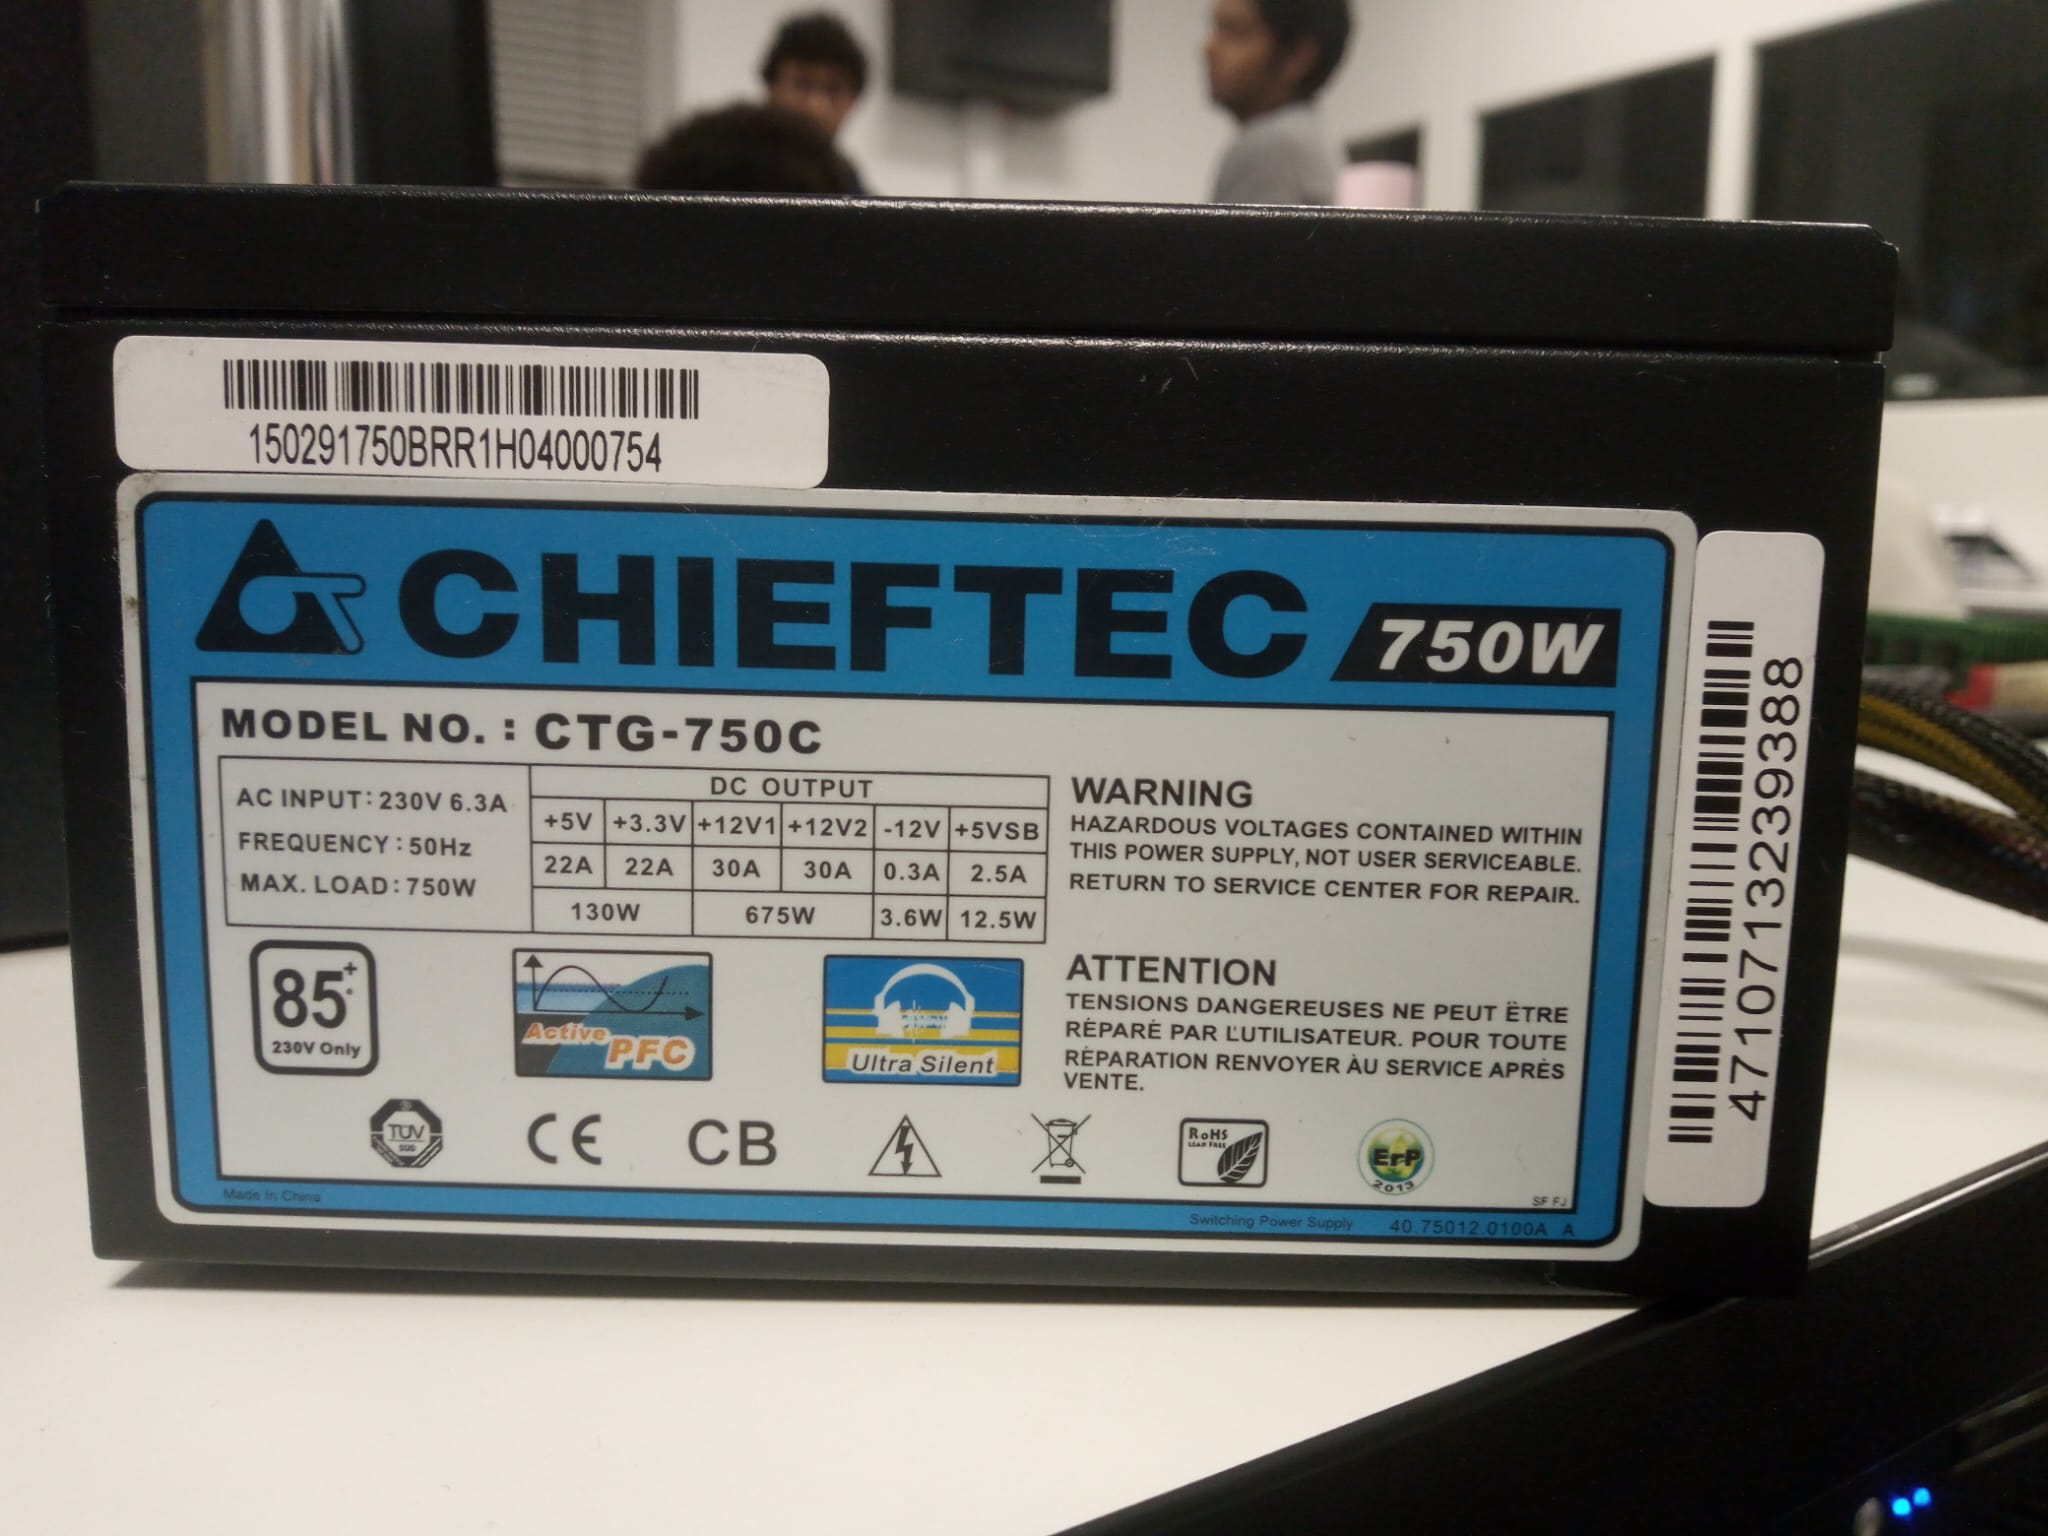
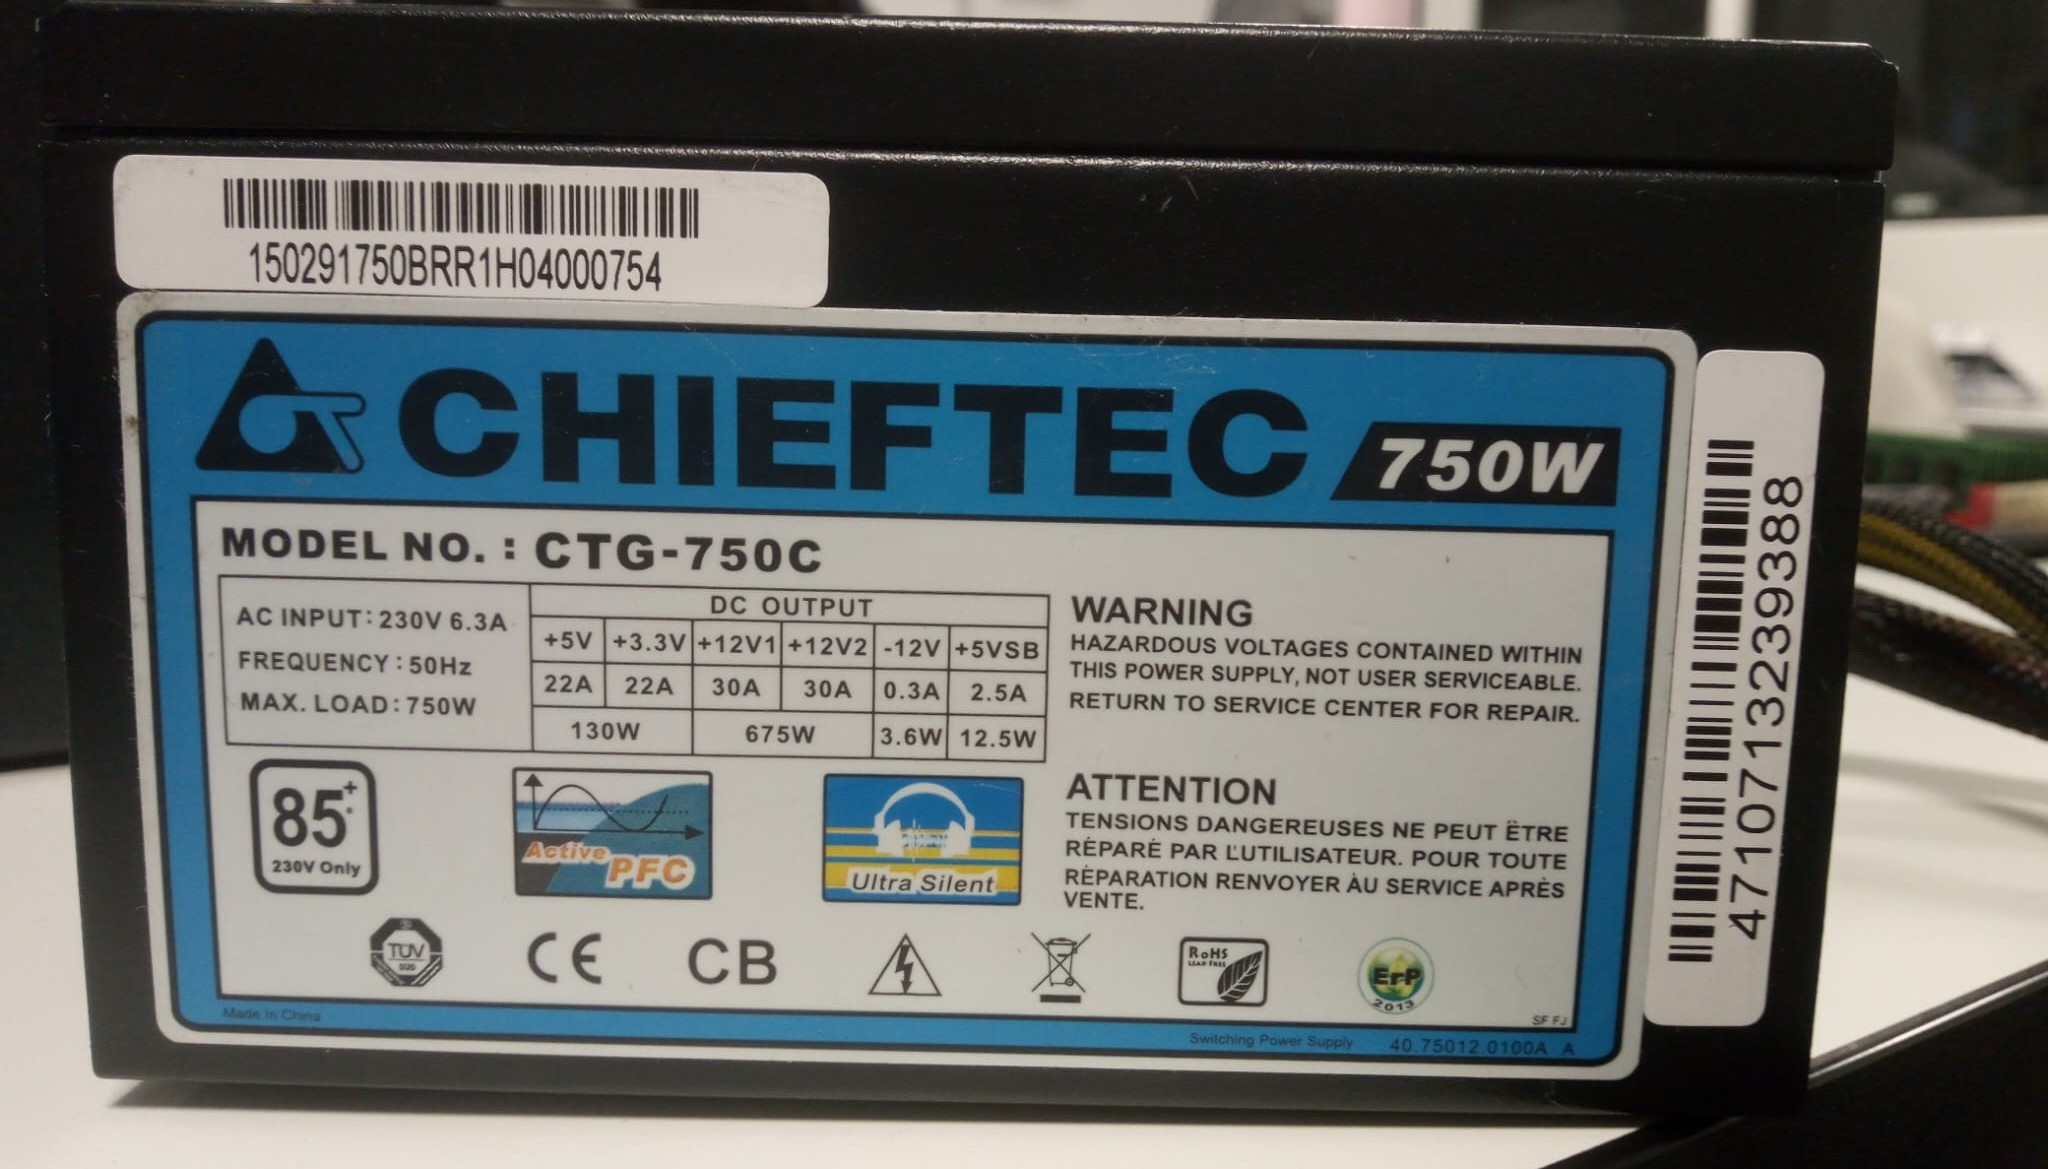
Operating Systems Comparison and picture resize in PSU_SSD_research file
Operating Systems Comparison md file added and resize of the picture in PSU_SSD_research file to delete the picture part containing the blurred faces of some members of the group

diff --git a/research_folder/Ubuntu_NixOS_ArchLinux_Comparison.md b/research_folder/Ubuntu_NixOS_ArchLinux_Comparison.md
@@ -1,0 +1,33 @@
+# <u> **Comparison between Ubuntu, NixOS and Arch Linux Operating Systems**</u>
+
+| **Factors** | **Ubuntu** | **NixOS** | **Arch Linux** |
+|-------------|------------|-----------|----------------|
+| **User-Friendliness** | User friendly, ideal for beginners. | Require some Linux experience, stiff learning curve. | Not very user-friendly, require a lot of manual setting. |
+| **Package Management** | Uses APT and DEB packages. | Uses Nix package manager. Offers reproducible builds. | Uses Pacman package manager. |
+| **Stability** | Stable release with LTS (Long Term Support) versions. | Focuses more on reproducibility and reliability. | Sacrifice stability for freedom and flexibility.|
+| **Documentation** | Large documentation and Community support. | Good documentation, improving. | Excellent documentation with a collaborative wiki. | 
+| **Customisability** | Fairly customizable, but require more manual configuration. | Highly customizable, especially in terms of system configuration and package management. | Highly customizable, the system can be built from scratch. |
+| **Security** | Focuses more on system integration. | It offers a reproducible system environment by isolating packages via containerization techniques (Docker). | Depends mainly from the user. |
+| **Community and Support** | Large user base, extensive community support and forums. | Small but active community. | Strong and active community support. | 
+| **Number of packages available** | Over 60,000 | Over 80,000 | 14697 |
+
+
+# References
+- [Ubuntu Documentation](https://help.ubuntu.com/stable/ubuntu-help/index.html.en) [Accessed: 25/01/2024]
+- [Ubuntu User-Friendly Discussion](https://www.linkedin.com/pulse/ubuntu-robust-user-friendly-linux-distribution-shivam-pateriya/ ) [Accessed: 25/01/2024]
+- [Ubuntu Forum](https://ubuntuforums.org/) [Accessed: 25/01/2024]
+- [Ubuntu Contributors Community](https://discourse.ubuntu.com/?_ga=2.191526250.1915542198.1706178654-1628427948.1706178654) [Accessed: 25/01/2024]
+- [Ubuntu Package Management](https://ubuntu.com/server/docs/package-management) [Accessed: 25/01/2024]
+- [NixOS Manual](https://nixos.org/manual/nixos/stable/#sec-user-management) [Accessed: 25/01/2024]
+- [NixOS User-Friendly Discussion](https://www.reddit.com/r/NixOS/comments/jag2k1/do_you_think_nixos_could_be_positioned_as_one_of/?rdt=40092) [Accessed: 25/01/2024]
+- [NixOS Community](https://github.com/nix-community) [Accessed: 25/01/2024]
+- [NixOS Package Management](https://github.com/NixOS/nixpkgs)[Accessed: 25/01/2024]
+- [NixOS Package Management](https://github.com/NixOS/nixpkgs)  [Accessed: 25/01/2024]
+- [Arch Linux Documentation](https://wiki.archlinux.org/title/Arch_Linux) [Accessed: 25/01/2024]
+- [Arch Linux User-Friendly](https://wiki.archlinux.org/title/arch_compared_to_other_distributions) [Accessed: 25/01/2024]
+- [Arch Linux Community Forum](https://bbs.archlinux.org/) [Accessed: 25/01/2024]
+- [Arch Linux Package Management](https://wiki.archlinux.org/title/pacman) [Accessed: 25/01/2024]
+- [Arch Linux Packages](https://archlinux.org/packages/) [Accessed: 25/01/2024]
+- [NixOS vs  Ubuntu](https://stackshare.io/stackups/nixos-vs-ubuntu#:~:text=Package%20Management%3A%20NixOS%20utilizes%20the,stability%20and%20ease%20of%20use.) [Accessed: 25/01/2024]
+- [Arch Linux vs Ubuntu](https://www.redswitches.com/blog/arch-linux-vs-ubuntu/#:~:text=While%20Arch%20Linux%20guarantees%20freedom,has%20a%20relatively%20large%20community.) [Accessed: 25/01/2024]
+- [Arch Linux vs NixOS](https://stackshare.io/stackups/arch-linux-vs-nixos#:~:text=Arch%20Linux%20emphasizes%20simplicity%2C%20manual,declarative%20configuration%2C%20and%20package%20isolation.) [Accessed: 25/01/2024]
